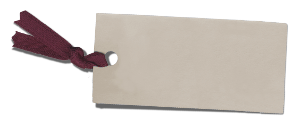
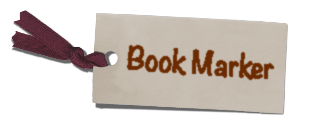
見た目を整える ログアウト後に戻った場合にサインインページにリダイレクトするように修正

diff --git a/08/index.php b/08/index.php
@@ -1,10 +1,16 @@
 <?php
 require_once('init.php');
 
+if(!$_SESSION['user_id']){
+	header("Location: signin.php");
+	exit;
+}
+
 //1.  DB接続します
 $pdo = connectDb();
 
 $_SESSION['nickname'] = getNickName($_SESSION['user_id'], $pdo);
+$_SESSION['kanri_flg'] = getAdminFlg($_SESSION['user_id'], $pdo);
 
 //２．データ登録SQL作成
 $stmt = $pdo->prepare("SELECT * FROM gs_bm_table");
@@ -26,9 +32,9 @@ if($status==false){
 				$view .= '<div id="book_item'.$result["id"].'" class="book_item">';
 				$view .= '<a href="'.$result["url"].'" target="_blank"><img class="book_img" src="'.$result["img_url"].'"></a>';
 				$view .= '『<a href="'.$result["url"].'" target="_blank">'.$result["title"].
-					'</a>』<div class="point">'.$result["point"].'いいね！</div><a class="btn remove_button" onclick="remove_data('.$result["id"].
-					')" href="#">削除</a><a class="btn edit_button" href="edit.php?arg='.$result["id"].
-					'">編集</a>';
+					'</a>』<div class="point">'.$result["point"].'  <span class="glyphicon glyphicon-thumbs-up" aria-hidden="true" style="padding-top:14px;"></span></div><a class="btn remove_button" onclick="remove_data('.$result["id"].
+					')" href="#"><span class="glyphicon glyphicon-trash" aria-hidden="true" style="padding-top:3px;"></span>削除</a><a class="btn edit_button" href="edit.php?arg='.$result["id"].
+					'"><span class="glyphicon glyphicon-edit" aria-hidden="true" style="padding-top:3px;"></span>編集</a>';
 				$view .= '<p>'.$result["comment"].'( ★'.$_SESSION['nickname'].' / '.$result["indate"].'）</p>';
 				$view .= '<hr style="border:none;border-top:1px dashed #f0bdaa;">';
 				$view .= '<p>'.$result["other_comment"].'</p>';
@@ -37,9 +43,9 @@ if($status==false){
 				$other_sender = getNickName($result['sender'], $pdo);
 				$view .= '<div id="book_item'.$result["id"].'" class="book_item">';
 				$view .= '<a href="'.$result["url"].'" target="_blank"><img class="book_img" src="'.$result["img_url"].'"></a>';
-				$view .= '『<a href="'.$result["url"].'" target="_blank">'.$result["title"].'</a>』<div class="point">'.$result["point"].'いいね！</div>';
-				$view .= '<a class="good_button btn" href="good.php?arg='.$result["id"].'">いいね！</a>';
-				$view .= '<a class="comment_button btn" href="comment.php?arg='.$result["id"].'">コメントする</a>';
+				$view .= '『<a href="'.$result["url"].'" target="_blank">'.$result["title"].'</a>』<div class="point">'.$result["point"].'  <span class="glyphicon glyphicon-thumbs-up" aria-hidden="true" style="padding-top:14px;"></span></div>';
+				$view .= '<a class="good_button btn" href="good.php?arg='.$result["id"].'"><span class="glyphicon glyphicon-thumbs-up" aria-hidden="true" style="padding-top:3px;"></span>いいね！</a>';
+				$view .= '<a class="comment_button btn" href="comment.php?arg='.$result["id"].'"><span class="glyphicon glyphicon-comment" aria-hidden="true" style="padding-top:3px;"></span>コメントする</a>';
 				$view .= '<p>'.$result["comment"].'( ★'.$other_sender.'さん / '.$result["indate"].'）</p>';
 				$view .= '<hr style="border:none;border-top:1px dashed #f0bdaa;">';
 				$view .= '<p>'.$result["other_comment"].'</p>';
@@ -77,15 +83,23 @@ if($status==false){
 			<nav class="navbar navbar-default">
 				<div class="container-fluid">
 					<div class="navbar-header">
-						<a class="navbar-brand" href="input.php">データ登録＜＜</a>
+						<a class="navbar-brand" href="#"><img src="./img/bookmarker.png" alt="bookmark" width="150px" style="margin:-20px 5px 0 0;"></a>
+						<a class="navbar-brand" href="input.php" style="margin-top:3px;">データ登録＜＜</a>
 						<form class="navbar-form navbar-left" role="search" method="post" action="search.php">
 							<div class="form-group">
-								<input type="text" class="form-control" placeholder="検索キーワード" name="word">
+								<input type="text" class="form-control" placeholder="タイトル検索" name="word">
 								<input class="submit_button search_btn" type="submit" value="検索">
 							</div>
 						</form>
+						<button type="button" class="navbar-toggle" data-toggle="collapse" data-target="#gnavi">
+							<span class="sr-only">メニュー</span>
+							<span class="icon-bar"></span>
+							<span class="icon-bar"></span>
+							<span class="icon-bar"></span>
+						</button>
 						<div class="navbar-right">
-							<a href="./signout.php"><span class="glyphicon glyphicon-log-out" aria-hidden="true" style="color:#f8f8f8;padding-top:8px;"></span>サインアウト</a>
+							<p style="color:#f8f8f8;">ようこそ
+								<?=$_SESSION['nickname']?>さん　<a href="./signout.php"><span class="glyphicon glyphicon-log-out" aria-hidden="true" style="color:#f8f8f8;padding-top:8px;"></span>サインアウト</a></p>
 						</div>
 					</div>
 				</div>

diff --git a/08/signin.php b/08/signin.php
@@ -46,7 +46,7 @@ if ($_SERVER['REQUEST_METHOD'] == 'POST') {
 			<div class="row">
 				<div class="col-md-4 col-md-push-4">
 					<img src="./img/bookmarker.png" alt="bookmark">
-					<h1>サインイン</h1>
+					<h1 hidden>サインイン</h1>
 					<form action="signin.php" method="POST">
 						<div class="form-group">
 							<label for="inputEmail" style="padding:0;">メールアドレス</label>

diff --git a/08/signup.php b/08/signup.php
@@ -70,7 +70,7 @@ if ($_SERVER['REQUEST_METHOD'] === 'POST') {
 			<div class="row">
 				<div class="col-md-4 col-md-push-4">
 					<img src="./img/bookmarker.png" alt="bookmark">
-					<h1>新規登録</h1>
+					<h1 hidden>新規登録</h1>
 					<!-- フォーム部分 -->
 					<form action="./signup.php" method="POST">
 						<!-- ユーザ名 -->
